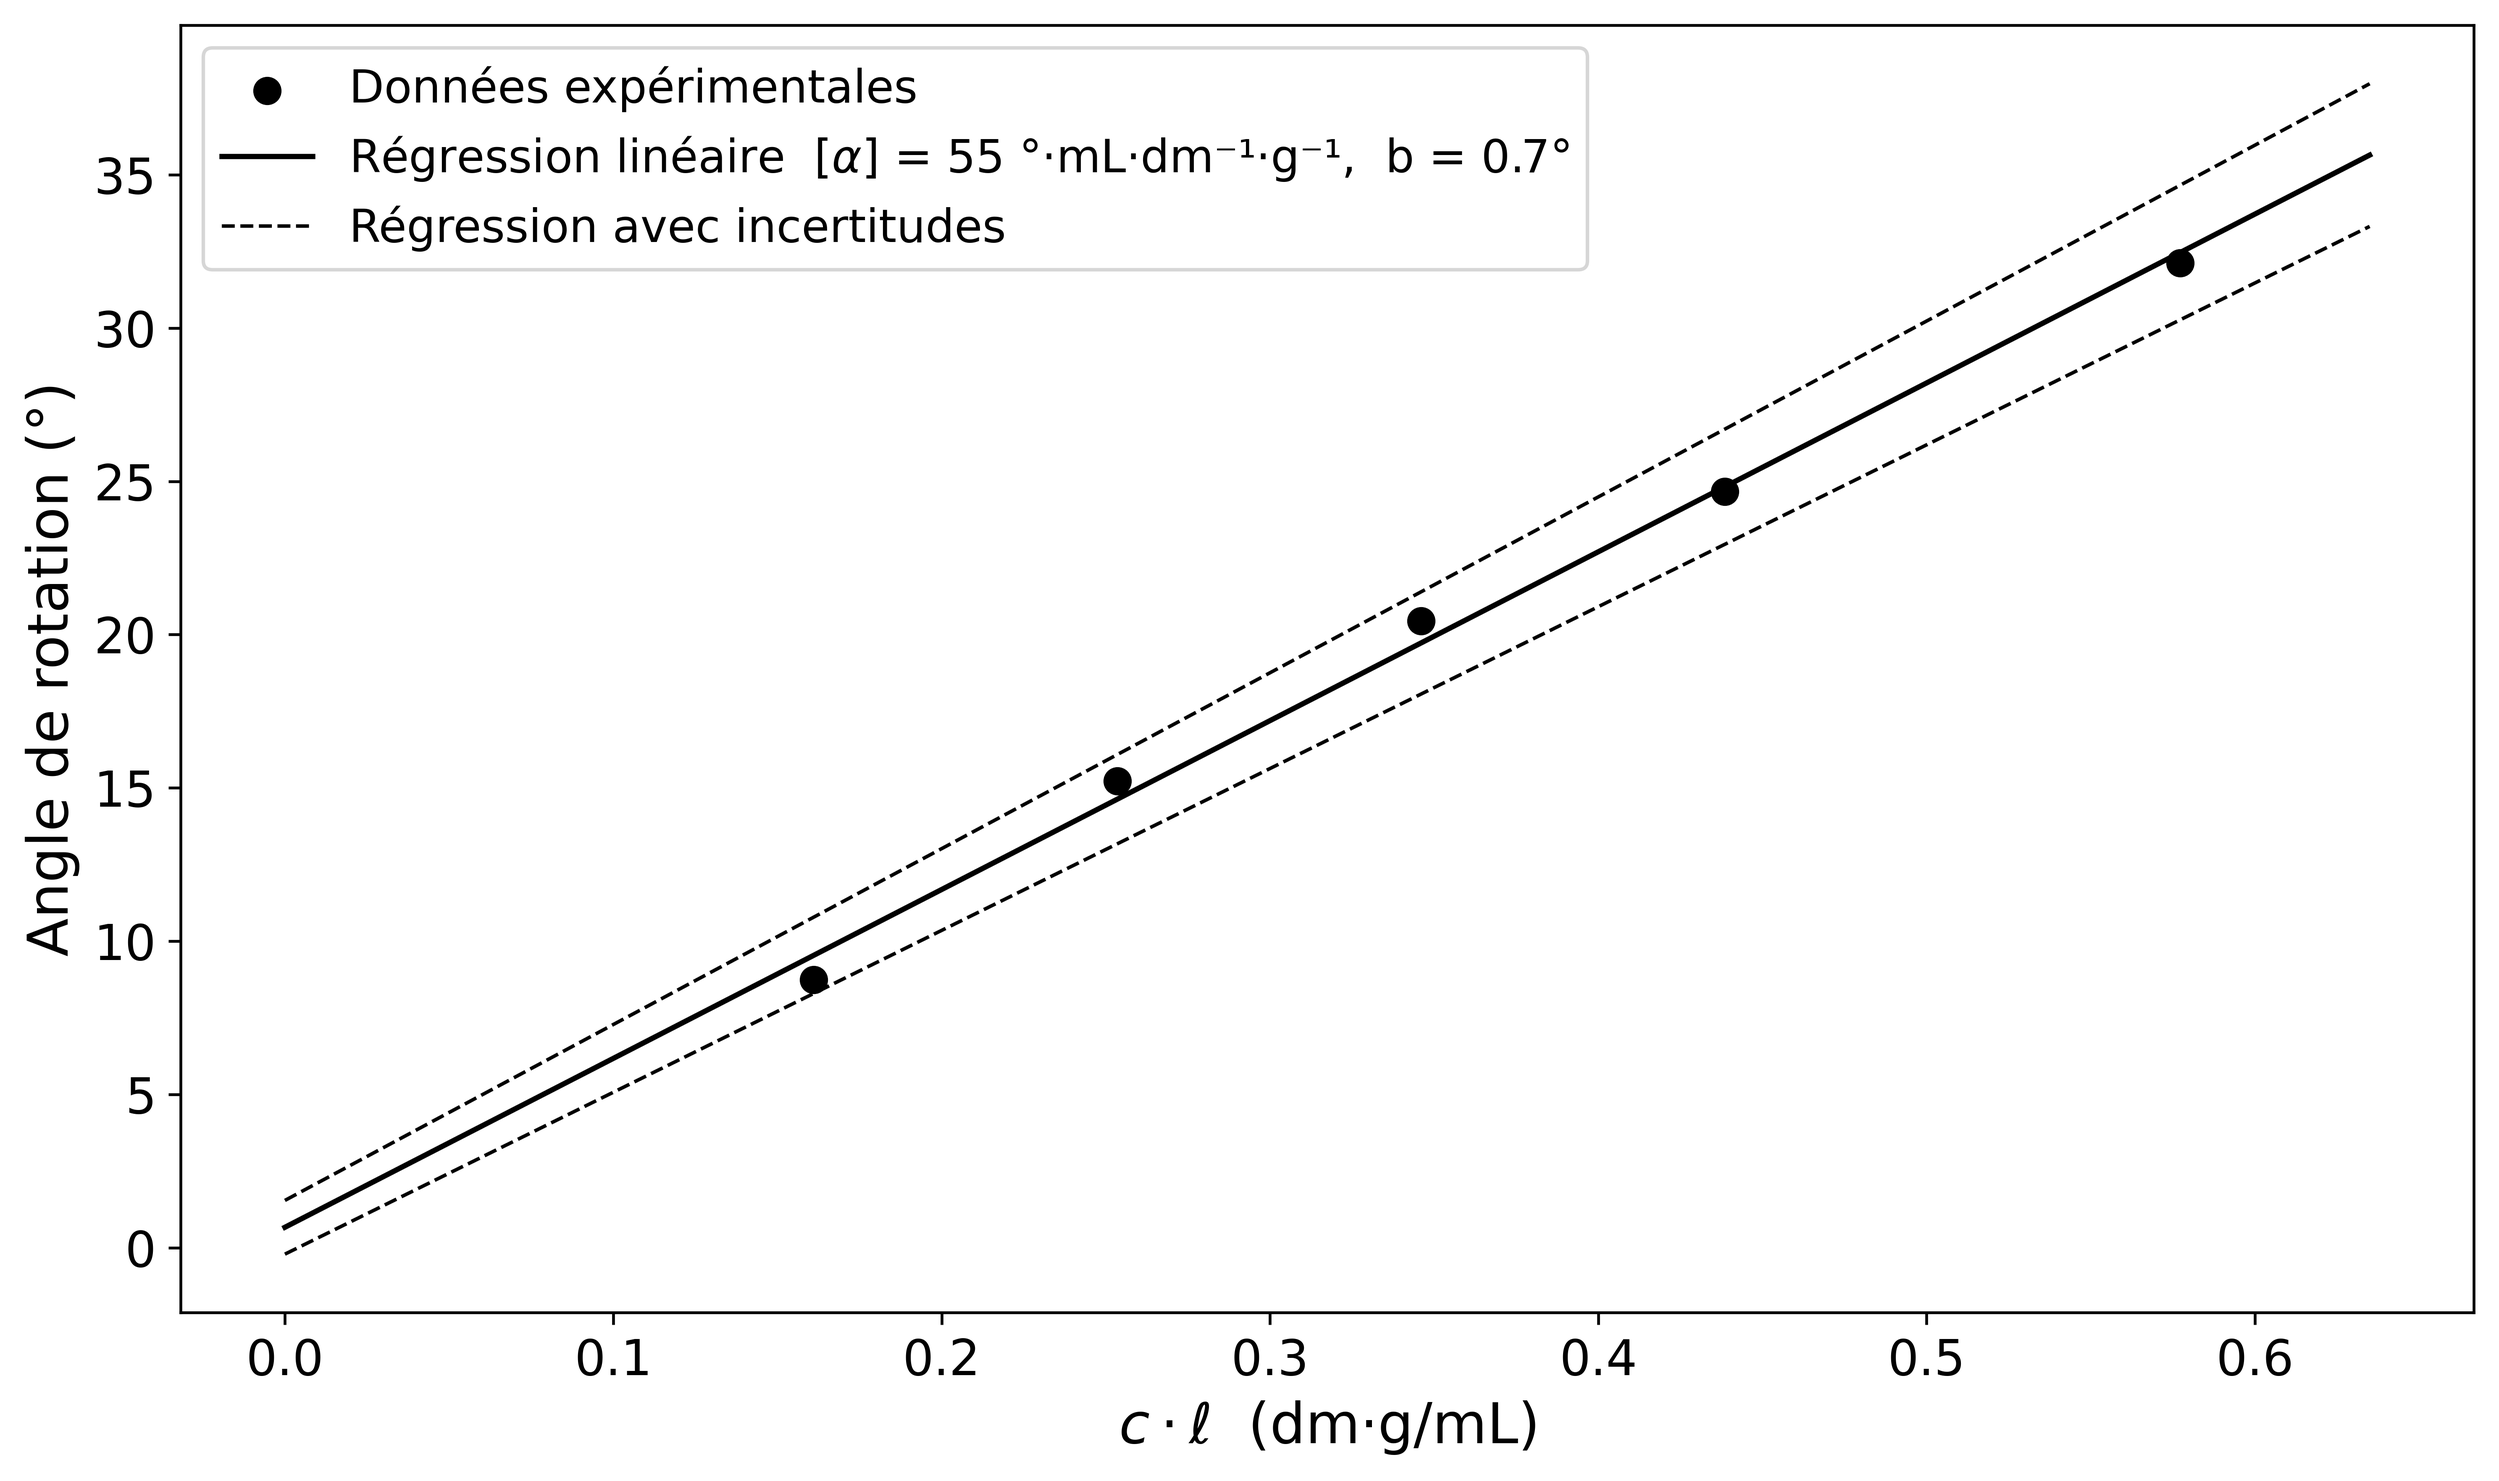
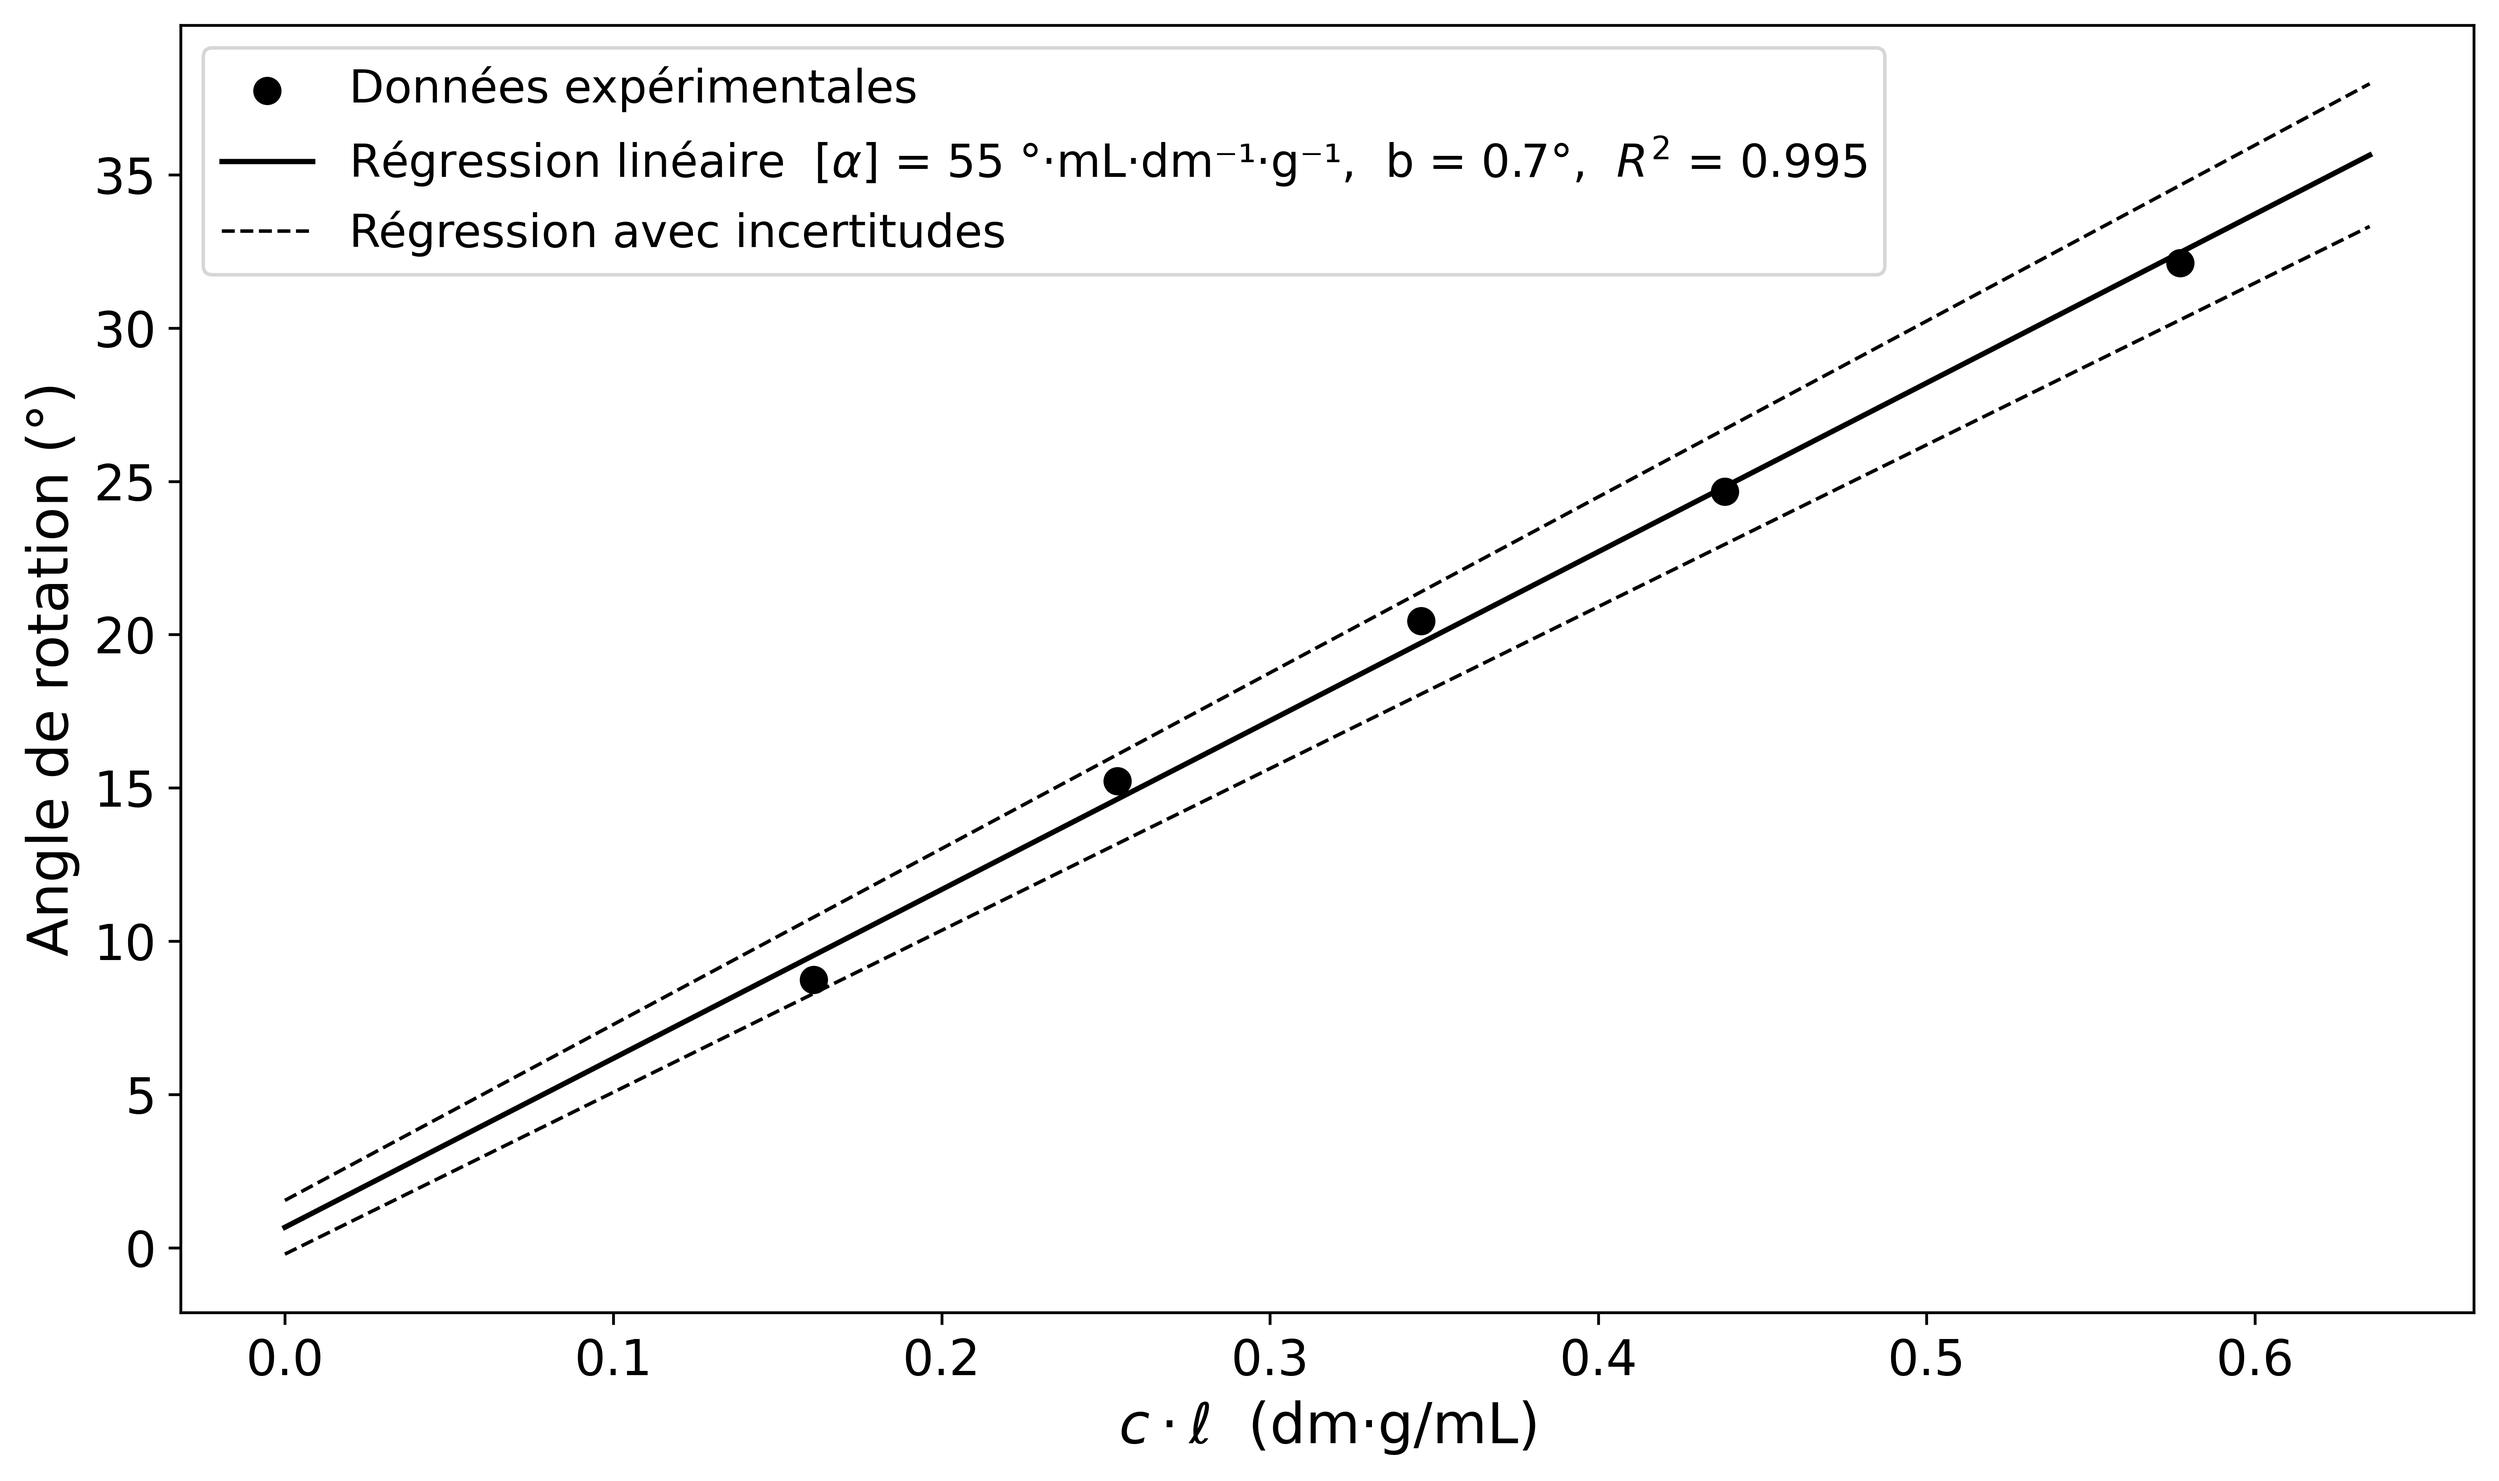
chiffres significatifs

Changed region(s): [[0.0933, 0.0936, 0.6531, 0.1872], [0.5598, 0.0936, 0.7463, 0.1248]]

diff --git a/Projet_2/fructose_moyenne_linéaire.py b/Projet_2/fructose_moyenne_linéaire.py
@@ -21,15 +21,19 @@ b              = popt[1]
 sigma_alpha_sp = np.sqrt(pcov[0, 0])
 sigma_b        = np.sqrt(pcov[1, 1])
 
+residuals = angle - regression_lineaire(cl, *popt)
+r2 = 1 - np.sum(residuals**2) / np.sum((angle - np.mean(angle))**2)
+
 print(f"Pouvoir rotatoire spécifique [α] = {alpha_sp:.1f} ± {sigma_alpha_sp:.1f} °·mL·dm⁻¹·g⁻¹")
 print(f"Ordonnée à l'origine          b  = {b:.1f} ± {sigma_b:.1f} °")
+print(f"Coefficient de détermination  R² = {r2:.6f}")
 
 x_fit = np.linspace(0, max(cl) * 1.1, 500)
 
 plt.figure(figsize=(10, 6))
 plt.scatter(cl, angle, color='black', s=50, label='Données expérimentales')
 plt.plot(x_fit, alpha_sp * x_fit + b, color='black', linestyle='-', linewidth=1.5,
-         label=f'Régression linéaire  $[\\alpha]$ = {alpha_sp:.1f} °·mL·dm⁻¹·g⁻¹,  b = {b:.1f}°')
+         label=f'Régression linéaire  $[\\alpha]$ = {alpha_sp:.1f} °·mL·dm⁻¹·g⁻¹,  b = {b:.1f}°,  $R^2$ = {r2:.3f}')
 plt.plot(x_fit, (alpha_sp - sigma_alpha_sp) * x_fit + (b - sigma_b),
          color="black", linestyle='--', linewidth=1, label='Régression avec incertitudes')
 plt.plot(x_fit, (alpha_sp + sigma_alpha_sp) * x_fit + (b + sigma_b),

diff --git a/Projet_2/glucose_moyenne_linéaire.py b/Projet_2/glucose_moyenne_linéaire.py
@@ -21,15 +21,19 @@ b              = popt[1]
 sigma_alpha_sp = np.sqrt(pcov[0, 0])
 sigma_b        = np.sqrt(pcov[1, 1])
 
+residuals = angle - regression_lineaire(cl, *popt)
+r2 = 1 - np.sum(residuals**2) / np.sum((angle - np.mean(angle))**2)
+
 print(f"Pouvoir rotatoire spécifique [α] = {alpha_sp:.0f} ± {sigma_alpha_sp:.1f} °·mL·dm⁻¹·g⁻¹")
 print(f"Ordonnée à l'origine          b  = {b:.1f} ± {sigma_b:.1f} °")
+print(f"Coefficient de détermination  R² = {r2:.6f}")
 
 x_fit = np.linspace(0, max(cl) * 1.1, 500)
 
 plt.figure(figsize=(10, 6))
 plt.scatter(cl, angle, color='black', s=50, label='Données expérimentales')
 plt.plot(x_fit, alpha_sp * x_fit + b, color='black', linestyle='-', linewidth=1.5,
-         label=f'Régression linéaire  $[\\alpha]$ = {alpha_sp:.0f} °·mL·dm⁻¹·g⁻¹,  b = {b:.1f}°')
+         label=f'Régression linéaire  $[\\alpha]$ = {alpha_sp:.0f} °·mL·dm⁻¹·g⁻¹,  b = {b:.1f}°,  $R^2$ = {r2:.3f}')
 plt.plot(x_fit, (alpha_sp - sigma_alpha_sp) * x_fit + (b - sigma_b),
          color="black", linestyle='--', linewidth=1, label='Régression avec incertitudes')
 plt.plot(x_fit, (alpha_sp + sigma_alpha_sp) * x_fit + (b + sigma_b),

diff --git a/Projet_2/fructose_comparaison.py b/Projet_2/fructose_comparaison.py
@@ -12,7 +12,7 @@ ANGLE_MAX  = 3
 longueurs = ['25.261 mm', '50.696 mm', '76.131 mm', '101.566 mm', '127.001 mm']
 results = []
 
-vec_col = ["#0A2E0F", "#1B5E20", "#388E3C", "#81C784", "#AFDBB1", "#FFD600"]
+vec_col = ["#0A2E0F", "#1B5E20", "#388E3C", "#81C784", "#8EB190", "#FFD600"]
 
 base_dir = os.path.dirname(os.path.abspath(__file__))
 excel_path = os.path.join(base_dir, "Projet_2_31_mars.xlsx")
@@ -86,7 +86,7 @@ for i, (longueur, col) in enumerate(colonnes_trouvees.items()):
         ax.plot(
             x_smooth, y_smooth,
             color=vec_col[i], linewidth=2,
-            label=f"{longueur} | θ = {x_max:.2f} ± {sigma_theta:.2f}°"
+            label=f"{longueur} | θ = {x_max:.1f} ± {sigma_theta:.1f}°"
         )
 
         ax.axvline(x_max, color=vec_col[i], linestyle='--', linewidth=1.3, alpha=0.7)

diff --git a/Projet_2/glucose_comparaison.py b/Projet_2/glucose_comparaison.py
@@ -99,7 +99,7 @@ for i, col in enumerate(longueur):
         y_smooth,
         color=vec_col[i],
         linewidth=2,
-        label=f"{col} | θ = {x_max:.2f} ± {sigma_theta:.2f}°"
+        label=f"{col} | θ = {x_max:.1f} ± {sigma_theta:.1f}°"
     )
 
     ax.axvline(x_max, color=vec_col[i], linestyle='--', linewidth=1.3, alpha=0.7)
